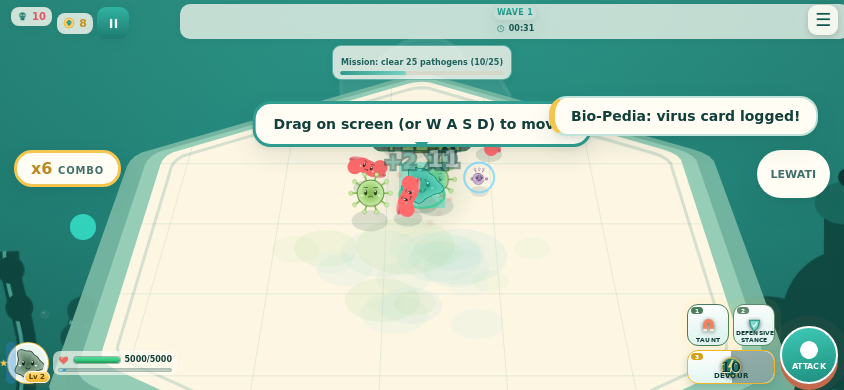
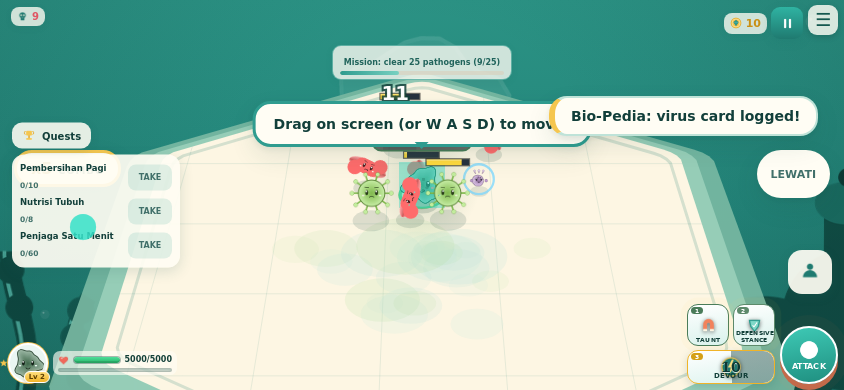
F25: dua menu gameplay (☰ kiri-atas + menu2 kanan-bawah melebar ke kiri: Heroes/Collection/Shop/Battle/Squad) dgn badge angka unlock (seenUnlockWave), panel quest kiri-tengah klaim manual + badge, wave/timer atas dihapus — ONBOARD 18/18, 7 suite hijau, bukti shots/99

diff --git a/js/main.js b/js/main.js
@@ -24,6 +24,8 @@ import { getHero } from './core/data-store.js';
 import { isDevMode } from './core/dev-mode.js';
 import { music } from './systems/music-system.js';
 import { gateFor } from './systems/feature-gate.js';
+import { renderBadges, markSeen } from './systems/unlock-badge-system.js';
+import { getQuestProgress, acceptQuest, claimQuest } from './systems/mission-system.js';
 
 import * as screenManager from './ui/screen-manager.js';
 import * as loadingScreen from './ui/screens/loading-screen.js';
@@ -108,11 +110,60 @@ function wireUiBridge() {
     screenManager.show('hud');
     tutorialOnRunStart(); // onboarding run pertama (3 langkah)
     music.start(); // F23: musik latar prosedural saat bermain
+    renderBadges(); // F25: badge unlock baru pada ikon menu
+    renderQuestPanel(); // F25: panel misi harian/mingguan (kiri tengah)
   });
 
   on('wave', ({ wave, isBoss }) => {
     hudScreen.showAnnounce(isBoss ? 'BOSS!' : `WAVE ${wave}`, isBoss);
   });
+  // F25: panel quest kiri-tengah — AMBIL → progres → KLAIM (hadiah TIDAK otomatis)
+  function renderQuestPanel() {
+    const body = document.getElementById('hud-quests-body');
+    const badge = document.getElementById('quests-badge');
+    if (!body) return;
+    try {
+      const meta = STATE.meta;
+      const quests = getQuestProgress(meta).filter((q) => !q.claimed).slice(0, 3);
+      let claimable = 0;
+      body.textContent = '';
+      for (const q of quests) {
+        const pct = Math.min(100, Math.round((q.value / q.def.target) * 100));
+        const row = document.createElement('div');
+        row.className = 'hq-row';
+        row.innerHTML = `<div class="hq-top"><b>${q.def.name}</b><span>${q.value}/${q.def.target}</span></div>
+          <div class="hq-bar"><i style="width:${pct}%"></i></div>`;
+        const act = document.createElement('button');
+        act.className = `hq-act${q.done && q.accepted ? ' claim' : ''}`;
+        act.textContent = q.claimed ? '✓' : (q.accepted ? (q.done ? 'KLAIM' : '…') : 'AMBIL');
+        act.disabled = q.claimed || (q.accepted && !q.done);
+        act.addEventListener('click', () => {
+          if (!q.accepted) acceptQuest(meta, q.def.id);
+          else {
+            const reward = claimQuest(meta, q.def.id);
+            if (reward) showToast({ message: `Quest selesai: +${reward} Antibodi`, kind: 'gold' });
+          }
+          audio.ui();
+          renderQuestPanel();
+        });
+        row.appendChild(act);
+        body.appendChild(row);
+        if (q.done && q.accepted) claimable += 1;
+        if (!q.accepted) claimable += 0; // belum diambil tidak dihitung badge (bijak utk anak)
+      }
+      badge.textContent = String(claimable);
+      badge.classList.toggle('hidden', claimable === 0);
+    } catch { /* meta belum siap */ }
+  }
+  window.__IMUNVERSE_renderQuestPanel = renderQuestPanel;
+
+  document.getElementById('hud-quests-toggle')?.addEventListener('click', () => {
+    const body = document.getElementById('hud-quests-body');
+    const open = body.classList.toggle('hidden') === false;
+    document.getElementById('hud-quests-toggle').setAttribute('aria-expanded', String(open));
+    audio.ui();
+  });
+
   on('waveBreak', ({ wave }) => {
     hudScreen.showAnnounce(`ARENA BERSIH · WAVE ${wave}`, false);
   });
@@ -240,7 +291,28 @@ async function boot() {
   hudMenuToggle?.addEventListener('click', () => {
     const open = hudMenu.classList.toggle('hidden') === false;
     hudMenuToggle.setAttribute('aria-expanded', String(open));
+    if (open) markSeen(); // F25: badge unlock dianggap dilihat saat menu dibuka
   });
+  // F25: MENU 2 — Hero/Collection/Shop/Battle/Squad (pojok kanan-bawah, melebar ke kiri)
+  const hudMenu2 = document.getElementById('hud-game-menu2');
+  const hudMenu2Toggle = document.getElementById('hud-menu2-toggle');
+  hudMenu2Toggle?.addEventListener('click', () => {
+    const open = hudMenu2.classList.toggle('hidden') === false;
+    hudMenu2Toggle.setAttribute('aria-expanded', String(open));
+    if (open) markSeen();
+  });
+  document.querySelectorAll('.hud-menu2-link').forEach((btn) => btn.addEventListener('click', () => {
+    const gate = gateFor('dock', btn.dataset.menu2Screen);
+    if (gate && gate.locked) {
+      showToast({ message: `Capai Gelombang ${gate.requireWave} untuk membuka!` });
+      audio.ui();
+      return;
+    }
+    game.pause();
+    hudMenu2?.classList.add('hidden');
+    music.stop();
+    screenManager.show(btn.dataset.menu2Screen);
+  }));
   document.querySelectorAll('.hud-menu-link').forEach((btn) => btn.addEventListener('click', () => {
     // F23: menu gameplay ikut gerbang bertahap (BP Gel.6, dst.) — konsisten dgn dashboard
     const gate = gateFor('secondary', btn.dataset.menuScreen);

diff --git a/styles/dashboard-focus.css b/styles/dashboard-focus.css
@@ -386,3 +386,82 @@
   width: min(92vw, 430px); min-height: 86px;
 }
 #screen-dashboard .dashboard-play:active { transform: translateX(-50%) translateY(4px) scale(.98); }
+
+/* ---------------------------------------------------------------
+   F25 — DUA MENU GAMEPLAY + QUEST PANEL + HAPUS WAVE/TIMER ATAS
+   Menu 1 (☰ kiri-atas, turun ke bawah): Campaign/Rank/Bio-Pedia/BP.
+   Menu 2 (kanan-bawah, melebar ke kiri): Heroes/Collection/Shop/Battle/Squad.
+   Semua item tersembunyi sampai unlock; badge angka saat ada unlock baru.
+   --------------------------------------------------------------- */
+#screen-hud .hud-center { display: none; }  /* wave/timer makan porsi — info wave cukup via announce */
+#screen-hud .menu-badge {
+  position: absolute; top: -5px; right: -5px; z-index: 4;
+  min-width: 15px; height: 15px; padding: 0 4px; border-radius: 999px;
+  background: #e86a4c; color: #fff; font: 900 9px/15px var(--font);
+  text-align: center; box-shadow: 0 2px 5px rgba(42, 31, 20, 0.3);
+}
+#screen-hud .hud-menu-toggle { overflow: visible; }
+#screen-hud .hud-menu2-toggle {
+  position: absolute; right: 12px; bottom: 96px; z-index: 8;
+  pointer-events: auto; /* #screen-hud passive — tombol harus opt-in */
+  width: 44px; height: 44px; border: 0; border-radius: 14px;
+  background: rgba(255, 253, 244, 0.92); cursor: pointer;
+  box-shadow: 0 3px 10px rgba(31, 95, 87, 0.22);
+  display: grid; place-items: center; overflow: visible;
+}
+#screen-hud .hud-menu2-toggle img { width: 22px; height: 22px; object-fit: contain; }
+#screen-hud .hud-menu2-toggle:active { transform: scale(0.93); }
+#screen-hud .hud-game-menu2 {
+  position: absolute; right: 12px; bottom: 148px; z-index: 9;
+  pointer-events: auto;
+  display: flex; flex-direction: row-reverse; gap: 6px;
+  padding: 6px; border-radius: 16px;
+  background: rgba(255, 253, 244, 0.97); box-shadow: 0 8px 22px rgba(0, 0, 0, 0.2);
+}
+#screen-hud .hud-game-menu2.hidden { display: none; }
+#screen-hud .hud-menu2-link {
+  border: 0; border-radius: 12px; background: var(--mint-2); cursor: pointer;
+  width: 54px; height: 54px; display: flex; flex-direction: column;
+  align-items: center; justify-content: center; gap: 2px; padding: 4px 2px;
+}
+#screen-hud .hud-menu2-link:active { transform: scale(0.93); }
+#screen-hud .hud-menu2-link img { width: 20px; height: 20px; object-fit: contain; }
+#screen-hud .hud-menu2-link span { font: 900 7.5px var(--font); color: var(--ink); }
+
+/* Panel quest kiri-tengah (misi harian/mingguan, klaim manual, badge kecil) */
+#screen-hud .hud-quests {
+  position: absolute; left: 12px; top: 50%; transform: translateY(-50%); z-index: 7;
+  width: 168px; max-width: 44vw; pointer-events: auto;
+}
+#screen-hud .hud-quests-head {
+  position: relative; display: inline-flex; align-items: center; gap: 6px;
+  border: 0; border-radius: 10px; padding: 6px 10px; cursor: pointer;
+  background: rgba(255, 253, 244, 0.88); box-shadow: 0 2px 8px rgba(31, 95, 87, 0.16);
+  font: 900 10px var(--font); color: var(--ink);
+}
+#screen-hud .hud-quests-head img { width: 14px; height: 14px; }
+#screen-hud .hud-quests-head .menu-badge { top: -6px; right: -8px; }
+#screen-hud .hud-quests-body {
+  margin-top: 6px; display: flex; flex-direction: column; gap: 5px;
+  padding: 8px; border-radius: 12px;
+  background: rgba(255, 253, 244, 0.92); box-shadow: 0 4px 14px rgba(31, 95, 87, 0.16);
+}
+#screen-hud .hud-quests-body.hidden { display: none; }
+#screen-hud .hq-row { display: flex; align-items: center; gap: 6px; }
+#screen-hud .hq-row .hq-top { flex: 1; min-width: 0; }
+#screen-hud .hq-row .hq-top b { display: block; font: 900 8.5px var(--font); color: var(--ink); white-space: nowrap; overflow: hidden; text-overflow: ellipsis; }
+#screen-hud .hq-row .hq-top span { font: 800 7.5px var(--font); color: var(--ink-soft); }
+#screen-hud .hq-row .hq-bar { height: 3px; border-radius: 2px; background: rgba(47, 156, 143, 0.18); margin-top: 2px; overflow: hidden; }
+#screen-hud .hq-row .hq-bar i { display: block; height: 100%; background: var(--teal); }
+#screen-hud .hq-act {
+  border: 0; border-radius: 8px; min-width: 44px; min-height: 26px; padding: 3px 7px;
+  background: rgba(47, 156, 143, 0.14); color: var(--ink-soft);
+  font: 900 8px var(--font); cursor: pointer;
+}
+#screen-hud .hq-act.claim { background: #f5c64f; color: #4a2f10; box-shadow: 0 2px 6px rgba(232, 166, 20, 0.4); }
+#screen-hud .hq-act:disabled { opacity: 0.55; cursor: default; }
+@media (max-width: 390px) {
+  #screen-hud .hud-menu2-toggle { right: 7px; bottom: 84px; width: 40px; height: 40px; }
+  #screen-hud .hud-game-menu2 { right: 7px; bottom: 132px; }
+  #screen-hud .hud-quests { left: 7px; width: 150px; }
+}

diff --git a/index.html b/index.html
@@ -9,7 +9,7 @@
   <meta name="theme-color" content="#fdf6e3" />
   <meta name="description" content="Imunverse — roguelike survival bertema sel imun. Bertahanlah di dalam tubuh melawan gelombang patogen!" />
   <title>Imunverse — Roguelike Survival Sel Imun</title>
-  <link rel="stylesheet" href="styles/main.css?v=23a" />
+  <link rel="stylesheet" href="styles/main.css?v=25a" />
   <link rel="stylesheet" href="styles/dashboard-focus.css?v=1" />
 </head>
 <body>
@@ -453,12 +453,29 @@
             <button id="btn-pause" class="btn btn-pause" aria-label="Jeda"><img src="assets/sprites/icon_pause.png" alt="" /></button>
           </div>
         </div>
-        <button id="hud-menu-toggle" class="hud-menu-toggle" aria-label="Menu gameplay" aria-expanded="false">☰</button>
+        <button id="hud-menu-toggle" class="hud-menu-toggle" aria-label="Menu gameplay" aria-expanded="false">☰<span id="menu1-badge" class="menu-badge hidden"></span></button>
         <div id="hud-game-menu" class="hud-game-menu hidden" aria-label="Menu gameplay">
           <button class="hud-menu-link" data-menu-screen="campaign"><img src="assets/sprites/icon_sirkulasi.png" alt="" />Campaign</button>
-          <button class="hud-menu-link" data-menu-screen="codex"><img src="assets/sprites/icon_scope.png" alt="" />Bio-Pedia</button>
           <button class="hud-menu-link" data-menu-screen="rank"><img src="assets/sprites/icon_trophy.png" alt="" />Rank</button>
+          <button class="hud-menu-link" data-menu-screen="codex"><img src="assets/sprites/icon_scope.png" alt="" />Bio-Pedia</button>
           <button class="hud-menu-link" data-menu-screen="bp"><img src="assets/sprites/icon_bolt.png" alt="" />Battle Pass</button>
+        </div>
+        <!-- F25: MENU 2 — pojok kanan-bawah, melebar ke kiri: Hero/Collections/Shop/Battle/Squad -->
+        <button id="hud-menu2-toggle" class="hud-menu2-toggle" aria-label="Menu hero &amp; toko" aria-expanded="false"><img src="assets/sprites/icon_heroes.png" alt="" /><span id="menu2-badge" class="menu-badge hidden"></span></button>
+        <div id="hud-game-menu2" class="hud-game-menu2 hidden" aria-label="Menu hero, koleksi &amp; toko">
+          <button class="hud-menu2-link" data-menu2-screen="roster"><img src="assets/sprites/icon_heroes.png" alt="" /><span>Heroes</span></button>
+          <button class="hud-menu2-link" data-menu2-screen="codex"><img src="assets/sprites/icon_scope.png" alt="" /><span>Collection</span></button>
+          <button class="hud-menu2-link" data-menu2-screen="shop"><img src="assets/sprites/icon_shop.png" alt="" /><span>Shop</span></button>
+          <button class="hud-menu2-link" data-menu2-screen="arena"><img src="assets/sprites/icon_play.png" alt="" /><span>Battle</span></button>
+          <button class="hud-menu2-link" data-menu2-screen="upgrade"><img src="assets/sprites/icon_sirkulasi.png" alt="" /><span>Squad</span></button>
+        </div>
+        <!-- F25: panel quest harian/mingguan — kiri tengah; hadiah manual-claim + badge kecil -->
+        <div id="hud-quests" class="hud-quests">
+          <button id="hud-quests-toggle" class="hud-quests-head" aria-expanded="true">
+            <img src="assets/sprites/icon_trophy.png" alt="" /><span>Misi</span>
+            <b id="quests-badge" class="menu-badge hidden"></b>
+          </button>
+          <div id="hud-quests-body" class="hud-quests-body"><!-- diisi JS --></div>
         </div>
         <div id="hud-buffs" class="hud-buffs"></div>
         <canvas id="hud-minimap" width="120" height="120" class="hud-minimap"></canvas>
@@ -638,7 +655,7 @@
     <div id="toasts"></div>
   </div>
 
-  <script type="module" src="js/main.js?v=23a"></script>
+  <script type="module" src="js/main.js?v=25a"></script>
   <div id="rotate-hud" aria-hidden="true">
     <div class="rh-phone"><span></span></div>
     <b>Putar HP-mu</b>

diff --git a/js/systems/unlock-badge-system.js b/js/systems/unlock-badge-system.js
@@ -1,0 +1,45 @@
+/**
+ * unlock-badge-system.js — F25: badge angka pada menu gameplay.
+ *
+ * Saat bestWave naik melewati syarat gerbang menu yang belum pernah dilihat
+ * pemain, ikon menu (☰ kiri-atas & menu Hero/Toko kanan-bawah) menampilkan
+ * badge angka ¹ ² … (jumlah unlock baru). Badge hilang saat pemain MEMBUKA
+ * menu (menandai sudah dilihat) — queue notif, bukan spam toast.
+ *
+ * Kunci progres tetap `meta.stats.bestWave`; penanda "sudah dilihat" disimpan
+ * di `meta.seenUnlockWave` (default 0).
+ */
+
+import { STATE } from '../core/state-manager.js';
+import { writeSave } from '../save/save-manager.js';
+import { getFeatures } from '../core/data-store.js';
+
+/** Daftar gerbang yang baru terbuka sejak terakhir dilihat. */
+export function pendingUnlocks() {
+  const best = (STATE.meta && STATE.meta.stats && STATE.meta.stats.bestWave) || 0;
+  const seen = (STATE.meta && STATE.meta.seenUnlockWave) || 0;
+  const gates = (getFeatures() && getFeatures().gates) || [];
+  return gates.filter((g) => g.requireWave > 0 && g.requireWave <= best && g.requireWave > seen);
+}
+
+/** Perbarui badge angka di kedua ikon menu. */
+export function renderBadges() {
+  const n = pendingUnlocks().length;
+  for (const id of ['menu1-badge', 'menu2-badge']) {
+    const el = document.getElementById(id);
+    if (!el) continue;
+    el.textContent = String(n);
+    el.classList.toggle('hidden', n === 0);
+  }
+  return n;
+}
+
+/** Pemain membuka menu → semua unlock dianggap sudah dilihat. */
+export function markSeen() {
+  if (!STATE.meta) return;
+  const best = (STATE.meta.stats && STATE.meta.stats.bestWave) || 0;
+  if ((STATE.meta.seenUnlockWave || 0) >= best) return;
+  STATE.meta.seenUnlockWave = best;
+  writeSave(STATE.meta);
+  renderBadges();
+}

diff --git a/js/core/version.js b/js/core/version.js
@@ -2,4 +2,4 @@
  * version.js — Versi build aset. Naikkan setiap rilis agar browser pemain
  * memuat ulang file (cache-busting), apa pun server statisnya.
  */
-export const BUILD = '23a';
+export const BUILD = '25a';

diff --git a/ROADMAP.md b/ROADMAP.md
@@ -449,6 +449,15 @@ Semua parameter hidup di **data/retention.json** (baru) — tanpa angka keras di
 - [x] **Suite adaptif**: ONBOARD home-launcher-clean (PLAY+sinematik+chip tampil; semua menu lama tak tampil); 5 suite lain dialihkan ke jalur fast-play (klik `#btn-play`); PROG gate/wave checks dibuat kondisional (tunggu boss, tutup modal apa pun, loop fase CLEAR→BREAK).
 - **Kriteria lulus:** ONBOARD 14/14, CORE 20/20, RET 20/20, ECO 14/14, BAL 13/13, PROG 18/18, PURPOSE 13/13; bukti `shots/98-home-launcher`.
 
+## Fase 25 — Dua Menu Gameplay + Badge Unlock + Quest Klaim Manual + Tanpa Wave/Timer Atas ✅
+**Arahan pemilik (F25):** menu ada 2 dalam gameplay — menu 1 ☰ kiri-atas turun ke bawah (Campaign/Rank/dll + modul mendatang), menu 2 kanan-bawah MELEBAR KE KIRI (Heroes/Collections/Shop/Battle/Squad/Dungeon); keduanya tersembunyi sampai unlock, saat unlock muncul badge angka ¹²…; quest daily/weekly di KIRI TENGAH, hadiah TIDAK otomatis — harus di-KLAIM, panel juga ber-badge; hapus wave/timer atas (makan porsi).
+- [x] **Menu 2** `#hud-menu2-toggle` (ikon Heroes) + `#hud-game-menu2` baris horizontal row-reverse (melebar ke kiri): Heroes/Collection/Shop/Battle/Squad — gerbang `dock` (F21 data/features.json), klik terkunci → toast, tetap di gameplay; Battle → modal arena.
+- [x] **Badge angka** `js/systems/unlock-badge-system.js`: gerbang yang baru terbuka sejak `meta.seenUnlockWave` dihitung; badge ¹² di kedua ikon menu; dibuka → `markSeen()` (queue notif, hilang permanen).
+- [x] **Panel quest kiri-tengah** `#hud-quests` (header Misi + badge klaimable): 3 quest teratas AMBIL → … (aktif, progress bar) → KLAIM (badge kuning) → ✓; reward Antibodi hanya via klik KLAIM.
+- [x] **Wave/timer atas dihapus** (`.hud-center` display:none) — informasi wave cukup lewat announce event ("WAVE N", "ARENA BERSIH", "BOSS!").
+- [x] pointer-events:auto untuk semua elemen interaktif HUD baru (screen passive); buster `25a`; i18n +9 (Misi/AMBIL/KLAIM dst).
+- **Kriteria lulus:** ONBOARD **18/18** (+hud25-quests-and-notimer, +quest-manual-claim-flow, +menu2-opens-left, +menu2-gate-blocked), CORE 20/20, RET 20/20, ECO 14/14, BAL 13/13, PROG 18/18, PURPOSE 13/13; bukti `shots/99-hud-menus`.
+
 ## Fase 8.2 — Koreksi: Tombol Hud Klik-Riil + Detail Upgrade di Menu Heroes ✅
 **Koreksi user:** (1) tombol TEMBAK tidak berfungsi & menutupi tombol jurus; (2) tombol jurus juga tidak berfungsi; (3) menu Heroes harus punya halaman detail per hero berisi upgrade persenjataan/damage/pasukan — "kalau sudah dibuat di mana letaknya? kalau ada berarti salah tempat".
 - [x] **AKAR MASALAH (1)&(2)**: `#screen-hud` ber-class `.screen.passive` = `pointer-events: none` (biar canvas tetap menerima joystick) → SEMUA tombol HUD tidak pernah bisa diklik. E2e lama memanggil API langsung (bukan klik) — lubang verifikasi; kini semua tes tombol memakai **klik mouse riil**.
